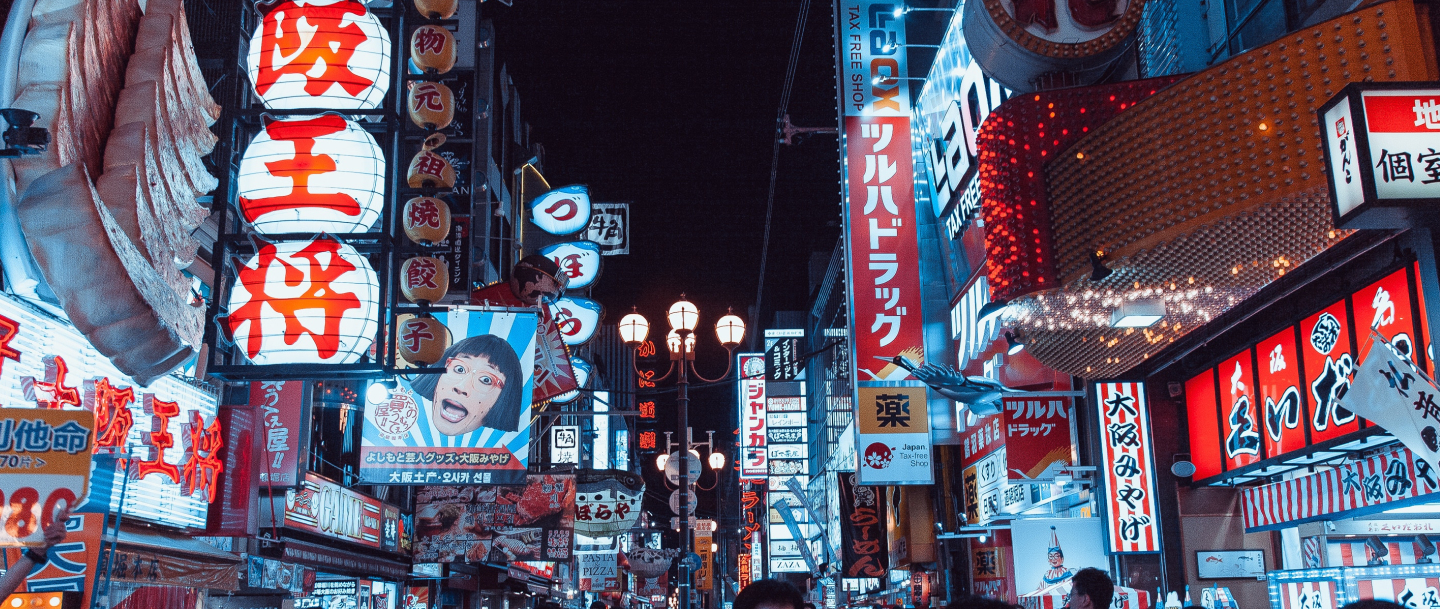
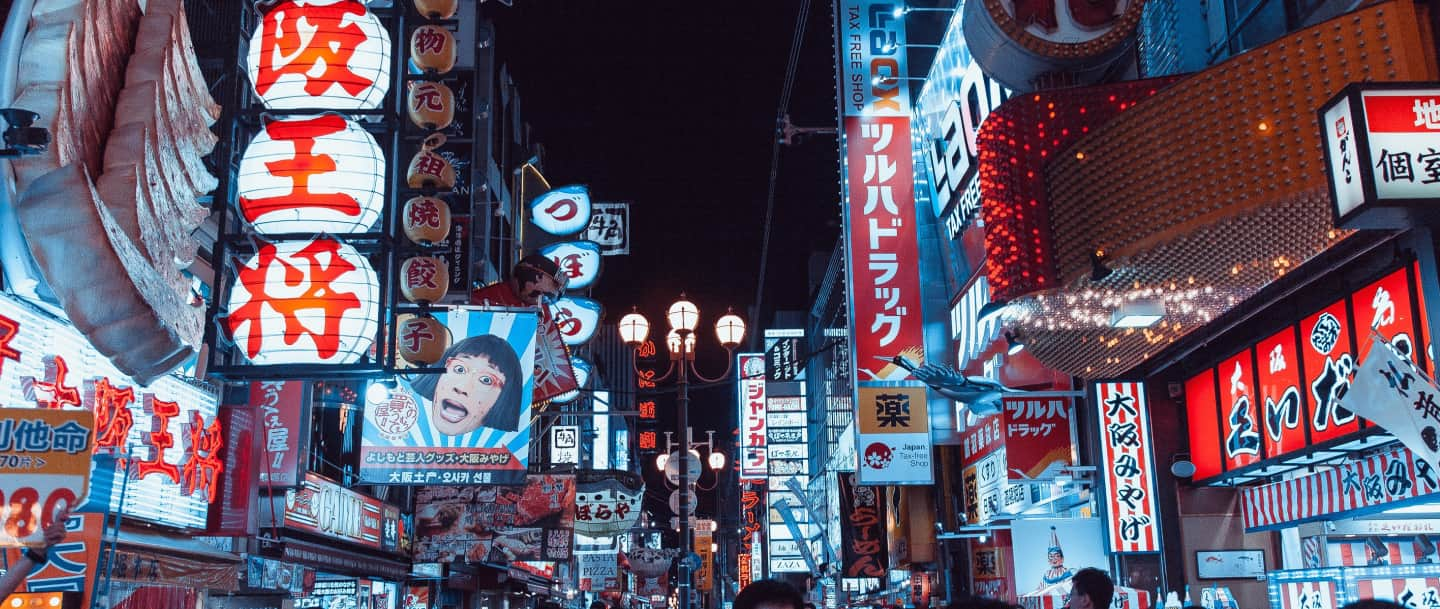
replaced .png images with compressed .jpg

diff --git a/src/components/pages/Landing/Articles/DetailedArticles/DetailedArticles.js b/src/components/pages/Landing/Articles/DetailedArticles/DetailedArticles.js
@@ -6,7 +6,7 @@ import { H3, VARIANTS as H3VARIANTS } from '../../../../ui-kit/H3';
 import { Anchor, VARIANTS as AnchorVARIANTS } from '../../../../ui-kit/Anchor';
 import { Card } from '../../../../ui-kit/Card';
 
-import images from './img/*.png';
+import images from './img/*.jpg';
 
 const propTypes = {
     detailedArticles: PropTypes.arrayOf(PropTypes.object)

diff --git a/src/components/pages/Landing/Articles/Articles.js b/src/components/pages/Landing/Articles/Articles.js
@@ -5,7 +5,7 @@ import s from "./Articles.css";
 import { H3, VARIANTS as H3VARIANTS } from "../../../ui-kit/H3";
 import { Anchor, VARIANTS as AnchorVARIANTS } from "../../../ui-kit/Anchor";
 
-import images from "./img/*.png";
+import images from "./img/*.jpg";
 
 const propTypes = {
   places: PropTypes.arrayOf(PropTypes.string)

diff --git a/src/components/pages/Landing/Locations/Locations.js b/src/components/pages/Landing/Locations/Locations.js
@@ -8,7 +8,7 @@ import { Card } from '../../../ui-kit/Card';
 import { Flex } from '../../../ui-kit/Flex';
 import { VARIANTS as AnchorVARIANTS } from '../../../ui-kit/Anchor';
 
-import images from './img/*.png';
+import images from './img/*.jpg';
 
 const propTypes = {
     locations: PropTypes.arrayOf(PropTypes.object)
